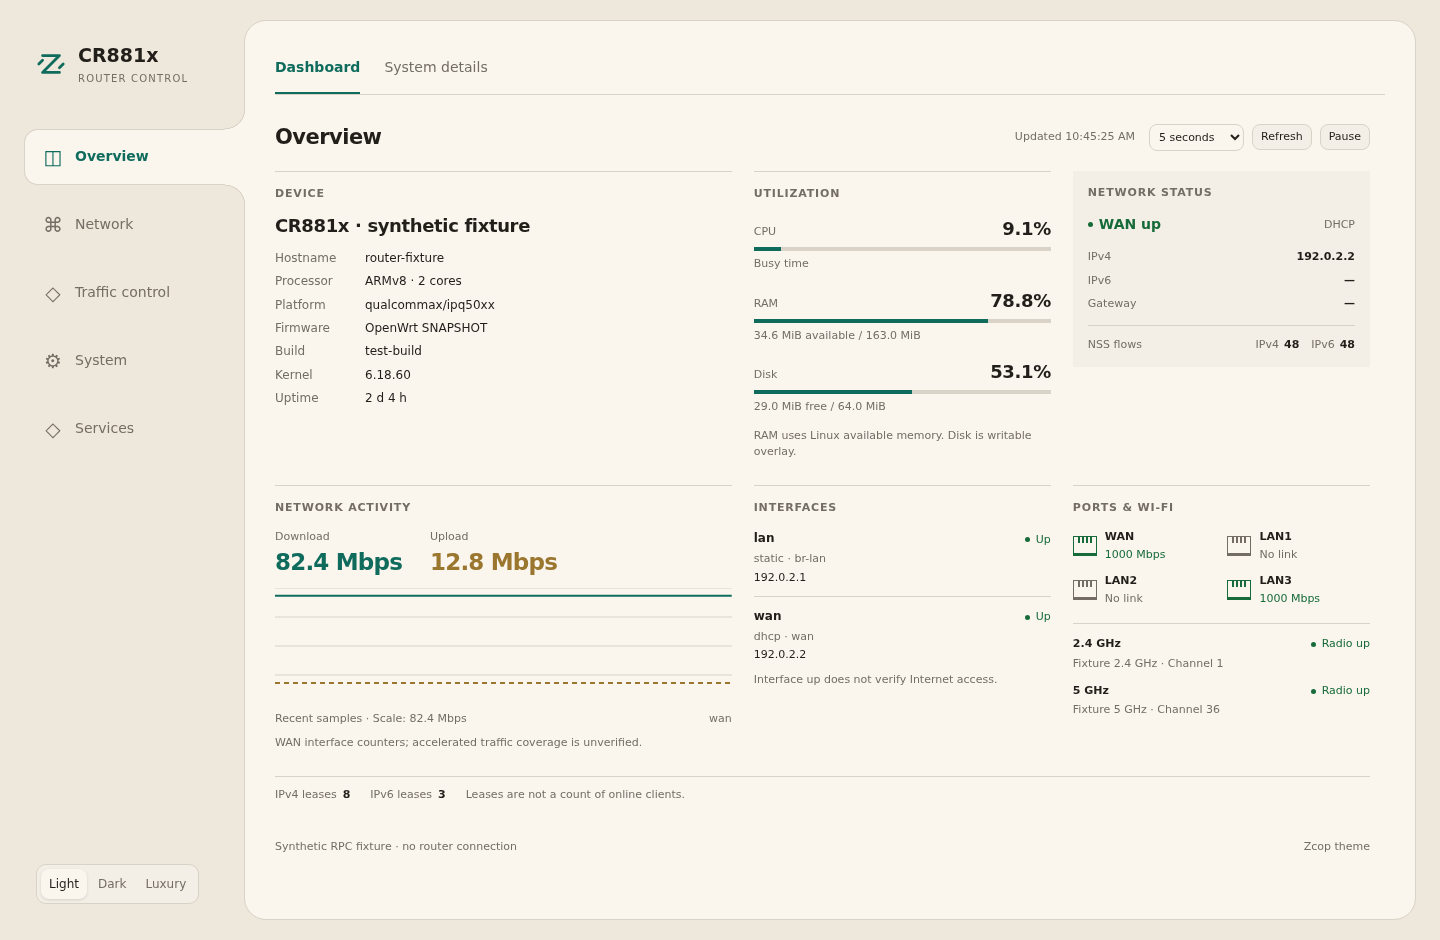
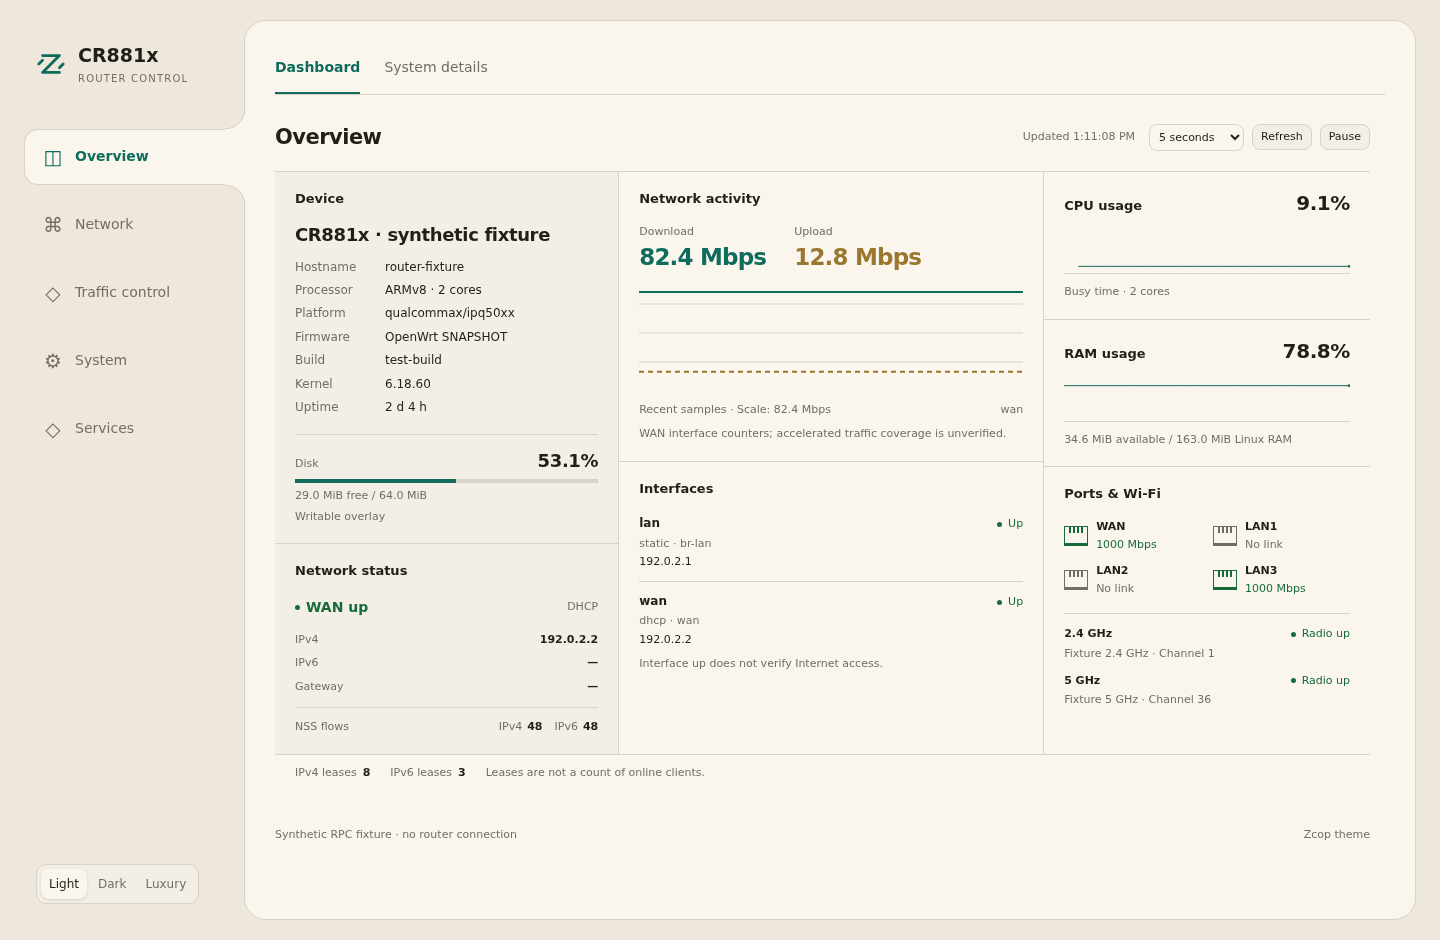
luci-app-zcop-dashboard: arrange connected panes and compact trends

diff --git a/luci-app-zcop-dashboard/htdocs/luci-static/resources/zcop/dashboard.css b/luci-app-zcop-dashboard/htdocs/luci-static/resources/zcop/dashboard.css
@@ -6,11 +6,10 @@
 .zc-dashboard-controls select{width:auto;min-width:0;height:27px;font-size:11px;padding:2px 5px}
 .zc-dashboard-controls button{font-size:11px;padding:4px 8px}
 .zc-refresh-status{font-size:11px;color:var(--zc-muted);margin-right:6px}
-.zc-dashboard-grid{display:grid;grid-template-columns:repeat(7,minmax(0,1fr));column-gap:22px;row-gap:24px;align-items:start}
-.zc-section{min-width:0;padding:14px 0 0;border-top:1px solid var(--zc-line);border-radius:0;background:none}
-.zc-section h3{font-size:11px!important;line-height:1.4!important;text-transform:uppercase;letter-spacing:.075em;font-weight:600;color:var(--zc-muted)!important;margin:0 0 14px!important}
-.zc-identity{grid-column:span 3}.zc-system,.zc-connection{grid-column:span 2}
-.zc-traffic{grid-column:span 3}.zc-interfaces-section,.zc-ethernet{grid-column:span 2}
+.zc-dashboard-grid{display:grid;grid-template-columns:minmax(0,1.05fr) minmax(0,1.3fr) minmax(0,1fr);border-top:1px solid var(--zc-line);align-items:stretch}
+.zc-pane{min-width:0;border-left:1px solid var(--zc-line)}.zc-pane-device{border-left:0;background:var(--zc-inset)}
+.zc-section{min-width:0;padding:18px 20px;border:0;border-radius:0;background:none}.zc-section+.zc-section{border-top:1px solid var(--zc-line)}
+.zc-section h3{font-size:13px!important;line-height:1.4!important;font-weight:550;color:var(--zc-text)!important;margin:0 0 16px!important}
 .zc-device-model{font-size:18px;line-height:1.25;font-weight:600;letter-spacing:-.02em;margin-bottom:12px;overflow-wrap:anywhere}
 .zc-specs{display:grid;gap:6px;margin:0}
 .zc-datum{display:flex;align-items:baseline;justify-content:space-between;gap:12px;min-width:0;font-size:12px;line-height:1.5}
@@ -24,8 +23,8 @@
 .zc-gauge+.zc-gauge{margin-top:14px}.zc-gauge .zc-datum{font-size:11px}.zc-gauge .zc-datum strong{font-size:18px;letter-spacing:-.02em;font-weight:550}
 .zc-gauge-track{height:4px;background:var(--zc-line);overflow:hidden;margin:5px 0}
 .zc-gauge-track>span{display:block;height:100%;background:var(--zc-accent)}
-.zc-gauge .zc-note{margin:0}.zc-system>.zc-note{margin-top:12px}
-.zc-connection{background:var(--zc-inset);border:0;padding:14px 15px}
+.zc-gauge .zc-note{margin:0}.zc-disk{margin-top:18px;padding-top:12px;border-top:1px solid var(--zc-line)}.zc-disk>.zc-note{margin-top:4px}
+.zc-connection{background:none}
 .zc-connection-heading{display:flex;align-items:center;justify-content:space-between;gap:8px;margin-bottom:14px}
 .zc-connection-heading .zc-state{font-size:14px;font-weight:550}.zc-connection-heading .zc-note{margin:0}
 .zc-addresses{display:grid;gap:7px}.zc-addresses .zc-datum{font-size:11px;gap:12px}.zc-addresses .zc-datum>span{flex-shrink:0}.zc-addresses strong{text-align:right}
@@ -35,7 +34,7 @@
 .zc-traffic-values .zc-datum{display:grid;gap:2px;font-size:11px}
 .zc-traffic-values strong{font-size:23px;line-height:1.3;letter-spacing:-.035em}
 .zc-traffic-values .zc-datum:first-child strong{color:var(--zc-accent)}.zc-traffic-values .zc-datum:nth-child(2) strong{color:var(--zc-upload)}
-.zc-chart{width:100%;height:115px;display:block;margin:8px 0;background:repeating-linear-gradient(to top,transparent 0,transparent 27px,var(--zc-line) 28px,transparent 29px)}
+.zc-chart{width:100%;height:105px;display:block;margin:12px 0;background:repeating-linear-gradient(to top,transparent 0,transparent 27px,var(--zc-line) 28px,transparent 29px)}
 .zc-chart path{fill:none;stroke-width:2;vector-effect:non-scaling-stroke}.zc-chart .down{stroke:var(--zc-accent)}.zc-chart .up{stroke:var(--zc-upload);stroke-dasharray:5 4}
 .zc-traffic-empty{color:var(--zc-muted);font-size:12px;padding:12px 14px;background:var(--zc-inset);margin:12px 0}
 .zc-chart-caption{display:flex;justify-content:space-between;gap:10px;color:var(--zc-muted);font-size:11px;overflow-wrap:anywhere}
@@ -52,5 +51,11 @@
 .zc-radio>p{color:var(--zc-muted);font-size:11px;margin:2px 0 0;overflow-wrap:anywhere}
 .zc-network-footer{grid-column:1/-1;display:flex;align-items:baseline;gap:10px 20px;flex-wrap:wrap;padding-top:10px;border-top:1px solid var(--zc-line)}
 .zc-network-footer .zc-datum{font-size:11px;gap:6px}.zc-network-footer .zc-note{margin:0}
-@container(max-width:920px){.zc-dashboard-grid{grid-template-columns:repeat(2,minmax(0,1fr));gap:22px}.zc-identity,.zc-system,.zc-traffic,.zc-interfaces-section,.zc-ethernet{grid-column:span 1}.zc-connection{grid-column:1/-1;display:grid;grid-template-columns:1fr 1.5fr 1fr;gap:14px}.zc-connection>h3{grid-column:1/-1;margin-bottom:0!important}.zc-connection-heading{margin:0;align-self:start;flex-wrap:wrap}.zc-acceleration{margin:0;border:0;padding:0;align-content:start}.zc-traffic{grid-column:1/-1}.zc-refresh-status{flex-basis:100%;margin:0}.zc-dashboard-meta{gap:10px}}
-@container(max-width:500px){.zc-dashboard-grid{grid-template-columns:minmax(0,1fr);gap:20px}.zc-section,.zc-connection,.zc-traffic{grid-column:1}.zc-connection{display:block}.zc-connection-heading{margin-bottom:12px}.zc-acceleration{margin-top:12px;border-top:1px solid var(--zc-line);padding-top:10px}.zc-connection>h3{margin-bottom:14px!important}.zc-dashboard-controls{gap:6px}.zc-traffic-values{gap:24px}.zc-specs .zc-datum{grid-template-columns:76px minmax(0,1fr)}}
+.zc-cpu,.zc-memory{display:grid;grid-template-columns:minmax(0,1fr) auto;gap:8px 12px;align-items:baseline}
+.zc-cpu h3,.zc-memory h3{margin:0!important}.zc-util-value{font-size:20px;line-height:1.3;font-weight:550;font-variant-numeric:tabular-nums;letter-spacing:-.02em}
+.zc-sparkline{grid-column:1/-1;display:block;width:100%;height:48px;overflow:hidden;border-bottom:1px solid var(--zc-line);margin:2px 0}
+.zc-sparkline path{fill:none;stroke:var(--zc-accent);stroke-width:1;vector-effect:non-scaling-stroke}.zc-sparkline circle{fill:var(--zc-accent)}
+.zc-cpu>.zc-note,.zc-memory>.zc-note{grid-column:1/-1;margin:0}
+.zc-network-footer{padding:10px 20px}
+@container(max-width:900px){.zc-dashboard-grid{grid-template-columns:minmax(0,1fr) minmax(0,1.2fr)}.zc-pane-metrics{grid-column:1/-1;border-left:0;border-top:1px solid var(--zc-line);display:grid;grid-template-columns:repeat(2,minmax(0,1fr));align-items:start}.zc-pane-metrics>.zc-section{border-top:0}.zc-pane-metrics>.zc-memory{border-left:1px solid var(--zc-line)}.zc-pane-metrics>.zc-ethernet{grid-column:1/-1;border-top:1px solid var(--zc-line)}.zc-ports{grid-template-columns:repeat(4,minmax(0,1fr))}.zc-refresh-status{flex-basis:100%;margin:0}.zc-dashboard-meta{gap:10px}}
+@container(max-width:550px){.zc-dashboard-grid{grid-template-columns:minmax(0,1fr)}.zc-pane,.zc-pane-metrics{grid-column:1;border-left:0}.zc-pane+.zc-pane{border-top:1px solid var(--zc-line)}.zc-pane-metrics{display:block}.zc-pane-metrics>.zc-memory,.zc-pane-metrics>.zc-ethernet{border-left:0;border-top:1px solid var(--zc-line)}.zc-section{padding:16px}.zc-dashboard-controls{gap:6px}.zc-traffic-values{gap:24px}.zc-specs .zc-datum{grid-template-columns:76px minmax(0,1fr)}.zc-ports{grid-template-columns:repeat(2,minmax(0,1fr))}.zc-network-footer{padding:10px 16px}}

diff --git a/luci-app-zcop-dashboard/htdocs/luci-static/resources/view/zcop/dashboard.js b/luci-app-zcop-dashboard/htdocs/luci-static/resources/view/zcop/dashboard.js
@@ -44,6 +44,8 @@ return view.extend({
   this.due = {};
   this.latestDevice = null;
   this.history = [];
+  this.cpuHistory = [];
+  this.ramHistory = [];
   this.generation = 0;
   this.failures = {};
   this.body = E('div', { 'class': 'zc-dashboard-grid' });
@@ -51,6 +53,8 @@ return view.extend({
   this.scheduler = Scheduler.create(() => this.collect(), () => {
    this.generation++;
    this.cpuBaseline = this.wanBaseline = null;
+   this.cpuHistory = metrics.append(this.cpuHistory, null);
+   this.ramHistory = metrics.append(this.ramHistory, null);
    this.due = {};
   });
   this.scheduler.hidden = document.hidden;
@@ -123,6 +127,7 @@ return view.extend({
   if (state.cpu?.time !== this.cpuTime) {
    const sample = metrics.cpu(cpu);
    this.cpuBusy = metrics.cpuPercent(this.cpuBaseline, sample);
+   this.cpuHistory = metrics.append(this.cpuHistory, this.cpuBusy);
    this.cpuBaseline = sample; this.cpuTime = state.cpu?.time;
   }
   const memory = current('system')?.memory || {};
@@ -164,16 +169,27 @@ return view.extend({
   const memoryUsed = Number.isFinite(memory.total) && memory.total > 0 && Number.isFinite(memory.available)
    && memory.available >= 0 && memory.available <= memory.total ? memory.total - memory.available : null;
   const disk = this.storage(current('mounts'));
-  const resources = section(_('Utilization'), [
-   gauge(_('CPU'), Number.isFinite(this.cpuBusy) ? number(this.cpuBusy) + '%' : '—', this.cpuBusy,
-    cpuPending ? _('Waiting for the next CPU sample') : !Number.isFinite(this.cpuBusy) ? _('CPU data unavailable') : _('Busy time')),
-   gauge(_('RAM'), memoryUsed === null ? '—' : number(memoryUsed / memory.total * 100) + '%',
-    memoryUsed === null ? null : memoryUsed / memory.total * 100,
-    memoryUsed === null ? _('Memory data unavailable') : mib(memory.available) + ' ' + _('available') + ' / ' + mib(memory.total)),
+  if (state.system?.time !== this.ramTime) {
+   if (this.ramTime && state.system.time - this.ramTime > 30000) this.ramHistory = metrics.append(this.ramHistory, null);
+   this.ramHistory = metrics.append(this.ramHistory, memoryUsed === null ? null : memoryUsed / memory.total * 100);
+   this.ramTime = state.system?.time;
+  }
+  const cpuPanel = section(_('CPU usage'), [
+   E('strong', { 'class': 'zc-util-value' }, Number.isFinite(this.cpuBusy) ? number(this.cpuBusy) + '%' : '—'),
+   Number.isFinite(this.cpuBusy) ? this.sparkline(this.cpuHistory, _('Recent CPU busy samples')) : null,
+   E('p', { 'class': 'zc-note' }, cpuPending ? _('Waiting for the next CPU sample')
+    : !Number.isFinite(this.cpuBusy) ? _('CPU data unavailable') : _('Busy time') + (cores ? ' · ' + cores + ' ' + _('cores') : ''))
+  ], 'cpu');
+  const ramPanel = section(_('RAM usage'), [
+   E('strong', { 'class': 'zc-util-value' }, memoryUsed === null ? '—' : number(memoryUsed / memory.total * 100) + '%'),
+   memoryUsed === null ? null : this.sparkline(this.ramHistory, _('Recent RAM usage samples')),
+   E('p', { 'class': 'zc-note' }, memoryUsed === null ? _('Memory data unavailable')
+    : mib(memory.available) + ' ' + _('available') + ' / ' + mib(memory.total) + ' ' + _('Linux RAM'))
+  ], 'memory');
+  deviceInfo.append(E('div', { 'class': 'zc-disk' }, [
    gauge(_('Disk'), disk.percent === null ? '—' : number(disk.percent) + '%', disk.percent,
     disk.percent === null ? _('Storage data unavailable') : mib(disk.avail) + ' ' + _('free') + ' / ' + mib(disk.total)),
-   E('p', { 'class': 'zc-note' }, _('RAM uses Linux available memory. Disk is writable overlay.'))
-  ], 'system');
+   E('p', { 'class': 'zc-note' }, _('Writable overlay'))]));
   const nss4 = metrics.count(current('nss4')), nss6 = metrics.count(current('nss6'));
   const wan6 = (current('interfaces') || []).find(iface => iface.up === true &&
    [wan?.interface + '6', wan?.interface + '_6'].includes(iface.interface));
@@ -242,7 +258,10 @@ return view.extend({
    pair(_('IPv4 leases'), Array.isArray(dhcp?.dhcp_leases) ? String(dhcp.dhcp_leases.length) : '—'),
    pair(_('IPv6 leases'), Array.isArray(dhcp?.dhcp6_leases) ? String(dhcp.dhcp6_leases.length) : '—'),
    E('span', { 'class': 'zc-note' }, _('Leases are not a count of online clients.'))]);
-  this.body.replaceChildren(deviceInfo, resources, connection, traffic, interfacesSection, ports, local);
+  this.body.replaceChildren(
+   E('div', { 'class': 'zc-pane zc-pane-device' }, [deviceInfo, connection]),
+   E('div', { 'class': 'zc-pane zc-pane-network' }, [traffic, interfacesSection]),
+   E('div', { 'class': 'zc-pane zc-pane-metrics' }, [cpuPanel, ramPanel, ports]), local);
  },
 
  storage(mountpoints) {
@@ -250,6 +269,26 @@ return view.extend({
   const total = mount?.size, free = mount?.free, avail = mount?.avail ?? free;
   const valid = Number.isFinite(total) && total > 0 && Number.isFinite(free) && free >= 0 && free <= total;
   return { total, avail, percent: valid ? (total - free) / total * 100 : null };
+ },
+ sparkline(samples, label) {
+  const ns = 'http://www.w3.org/2000/svg', svg = document.createElementNS(ns, 'svg');
+  svg.setAttribute('viewBox', '0 0 160 48'); svg.setAttribute('class', 'zc-sparkline');
+  svg.setAttribute('preserveAspectRatio', 'none');
+  svg.setAttribute('role', 'img'); svg.setAttribute('aria-label', label);
+  let connected = false, last = null;
+  const points = samples.map((value, i) => {
+   if (!Number.isFinite(value)) { connected = false; return ''; }
+   const x = samples.length > 1 ? i * 160 / (samples.length - 1) : 160, y = 45 - Math.max(0, Math.min(100, value)) * .42;
+   last = {x,y};
+   const point = (connected ? 'L' : 'M') + x.toFixed(1) + ' ' + y.toFixed(1);
+   connected = true; return point;
+  }).join(' ');
+  const path = document.createElementNS(ns, 'path'); path.setAttribute('d', points); svg.append(path);
+  if (last) {
+   const dot = document.createElementNS(ns, 'circle');
+   dot.setAttribute('cx', last.x); dot.setAttribute('cy', last.y); dot.setAttribute('r', '1.4'); svg.append(dot);
+  }
+  return svg;
  },
  chart() {
   const ns = 'http://www.w3.org/2000/svg';
@@ -264,7 +303,7 @@ return view.extend({
    let connected = false;
    const points = samples.map((sample, i) => {
     if (!sample) { connected = false; return ''; }
-    const point = (connected ? 'L' : 'M') + (i * 600 / 59).toFixed(1) + ' ' + (145 - sample[direction] / max * 135).toFixed(1);
+    const point = (connected ? 'L' : 'M') + (i * 600 / Math.max(1, samples.length - 1)).toFixed(1) + ' ' + (145 - sample[direction] / max * 135).toFixed(1);
     connected = true; return point;
    }).join(' ');
    path.setAttribute('d', points); path.setAttribute('class', direction); svg.append(path);

diff --git a/docs/dashboard-design.md b/docs/dashboard-design.md
@@ -1,4 +1,4 @@
-# Compact overview, revision 05
+# Compact overview, revision 06
 
 The overview summarizes the router for a quick glance. It uses its own
 presentation over existing authenticated LuCI RPC snapshots; configuration
@@ -7,38 +7,38 @@ stable main frame and three palettes.
 
 ## Content and arrangement
 
-The page uses open sections, not a card grid. Thin horizontal rules establish
-alignment, and the network summary has a quiet inset background. Sections have
-no rounded corners or enclosing outlines, and no shared minimum height.
+The user-supplied dashboard reference establishes a continuous workspace with
+shared divider lines, compact label/value rows and small plots next to values.
+The router adapts that structure into three adjacent panes of unequal width:
 
-At wide content widths the first row uses a 3:2:2 proportion:
+- **Device pane**: model, processor/core count, firmware/build, kernel, uptime
+  and writable-disk usage, with WAN state/addresses and acceleration below.
+- **Network pane**: a wider download/upload plot and numeric rates, followed
+  by logical interfaces with protocol, device, state and addresses.
+- **Metrics pane**: CPU and RAM percentages with small recent-sample plots,
+  followed by physical ports and radio/network/channel summaries.
 
-- **Device**: model, hostname, reported processor/core count, target platform,
-  firmware/build, kernel and uptime. Hardware identity is read once per page;
-  core count comes from the already collected CPU-time snapshot.
-- **Utilization**: three compact meters for CPU busy time, RAM and writable disk,
-  each with its percentage and relevant capacity/free values.
-- **Network status**: WAN state/protocol, IPv4/IPv6 addresses, gateway and active
-  ECM accelerated-flow counts. This is interface state, not an Internet test.
+Panes have shared vertical rules. Their sections use horizontal rules at natural
+content boundaries, without enclosing outlines, corner rounding or gutters.
+The device pane has a slightly different background. Section heights follow
+content independently rather than forcing a uniform row of boxes. A down WAN
+uses a short message in place of an empty chart-height placeholder.
 
-The second row gives more width to network activity, followed by compact
-logical-interface and physical-port sections:
+At intermediate widths the metrics move below the first two panes. A phone
+uses one vertical stack. Fixed sidebar/section menus and the stable outer main
+frame remain supplied by the theme. The DHCP lease footer labels leases rather
+than claiming online clients.
 
-- **Network activity**: WAN download/upload rates and one plot. A disconnected
-  or unsampled WAN has a short message instead of an empty chart-sized gap.
-- **Interfaces**: logical interface name, status, protocol, device and addresses.
-- **Ports & Wi-Fi**: physical Ethernet carrier/speed and radio/network/channel
-  summaries. Port information is separate from logical interface information.
-
-DHCP lease counts remain a small footer, labelled as leases rather than online
-clients. The number of interfaces/radios and length of values determine section
-height; they are not stretched to match another section. Container queries
-reflow to two columns and then one as the content frame narrows.
+CPU/RAM plots use existing15-second snapshots, without any additional request.
+Each browser-local array is limited to60 numeric samples/gap markers. A single
+sample is a point; missing values and resets break the plotted line. Plots span
+the samples actually collected, without claiming a fixed time duration or
+inventing data to fill startup history.
 
 There is no widget editor, drag/resize library, client inventory, live event
-stream, network scan or traffic classification. Screenshots in this directory
-render the actual application with explicitly marked synthetic RPC fixtures.
-`preview/index.html` is the earlier static concept, not a live feature list.
+stream, network scan or traffic classification. Documentation screenshots render
+the actual application with explicitly marked synthetic RPC fixtures. The
+user-supplied reference image is not redistributed in this repository.
 
 ## Data and resource budget
 
@@ -55,7 +55,7 @@ database. One collector runs at a time; numeric history stays in the browser.
 | Writable storage | 60 seconds | Existing mount summary |
 
 Collection pauses when hidden, leaving the page or explicitly paused. A request
-already in flight can finish. Failures back off. History is limited to60 samples.
+already in flight can finish. Failures back off. Each of the WAN, CPU and RAM histories is limited to60 entries.
 CPU busy percentage uses CPU-time deltas, not load average or a shell top command.
 
 ## Accuracy

diff --git a/README.md b/README.md
@@ -82,10 +82,10 @@ registered LuCI sections, with arbitrary deeper subpages retained. The theme
 does not rewrite application URLs or replace UCI configuration workflows.
 
 The dashboard uses its own presentation over existing authenticated LuCI RPC
-data. It arranges open sections at unequal widths to fit their content: device
-specs, utilization and network status, followed by traffic, logical interfaces
-and physical ports/radios. Fine rules and a subtle background separate sections
-without rounded cards. The layout adapts to the available frame width.
+data. It uses connected panes with shared divider lines: device details and disk on
+the left, WAN activity and logical interfaces in the wider center, and compact
+CPU/RAM trends plus ports/radios on the right. A quiet background separates
+the device pane without rounded cards. Panes reflow as the frame narrows.
 Detailed configuration stays on the existing pages. Missing data is shown as
 unavailable; an interface being up does not claim Internet reachability, and
 lease counts do not claim that clients are online.
@@ -97,7 +97,7 @@ lease counts do not claim that clients are online.
 - One collector in flight; no sampling sleep and no shell `top` command.
 - Polling stops when paused, hidden or leaving the page. An already running
   request can finish. Failures back off; manual refresh is available.
-- At most 60 numeric traffic samples in the browser. No RRD, collectd, database,
+- At most 60 numeric samples per WAN, CPU and RAM history in the browser. No RRD, collectd, database,
   router-side history, packet capture, flow dump, Wi-Fi scan or Internet probe.
 - WAN traffic is labelled as reported interface counters. NSS coverage must be
   checked on the target before treating it as complete accelerated accounting.

diff --git a/docs/validation.md b/docs/validation.md
@@ -1,5 +1,24 @@
 # Validation
 
+## Connected panes, 2026-11-12
+
+Dashboard version: 0.4.0-r1. Theme remains0.1.3-r1.
+
+The supplied visual reference informed connected panes with shared separators,
+compact data rows and integrated small charts. Device/disk/network summary,
+WAN activity/interfaces and CPU/RAM/ports occupy unequal-width columns, with
+independent section heights and no card gutters. The supplied image is not
+included in the repository.
+
+- Unit and actual-module browser checks pass, including adjacent unboxed panes,
+  unequal widths, long values and desktop/tablet/phone reflow.
+- CPU/RAM trends use existing snapshots, with at most60 entries each. Tests
+  check bounded histories and ensure unrelated redraws do not duplicate samples.
+  Missing/initial data remains unknown; no startup history is fabricated.
+- Collector, RPC sources, refresh intervals, ACLs and dependencies are unchanged.
+  Source/package screenshots continue to use explicitly marked synthetic data.
+
+
 ## Compact sections, 2026-11-12
 
 Dashboard version: 0.3.0-r1. Theme remains 0.1.3-r1.
